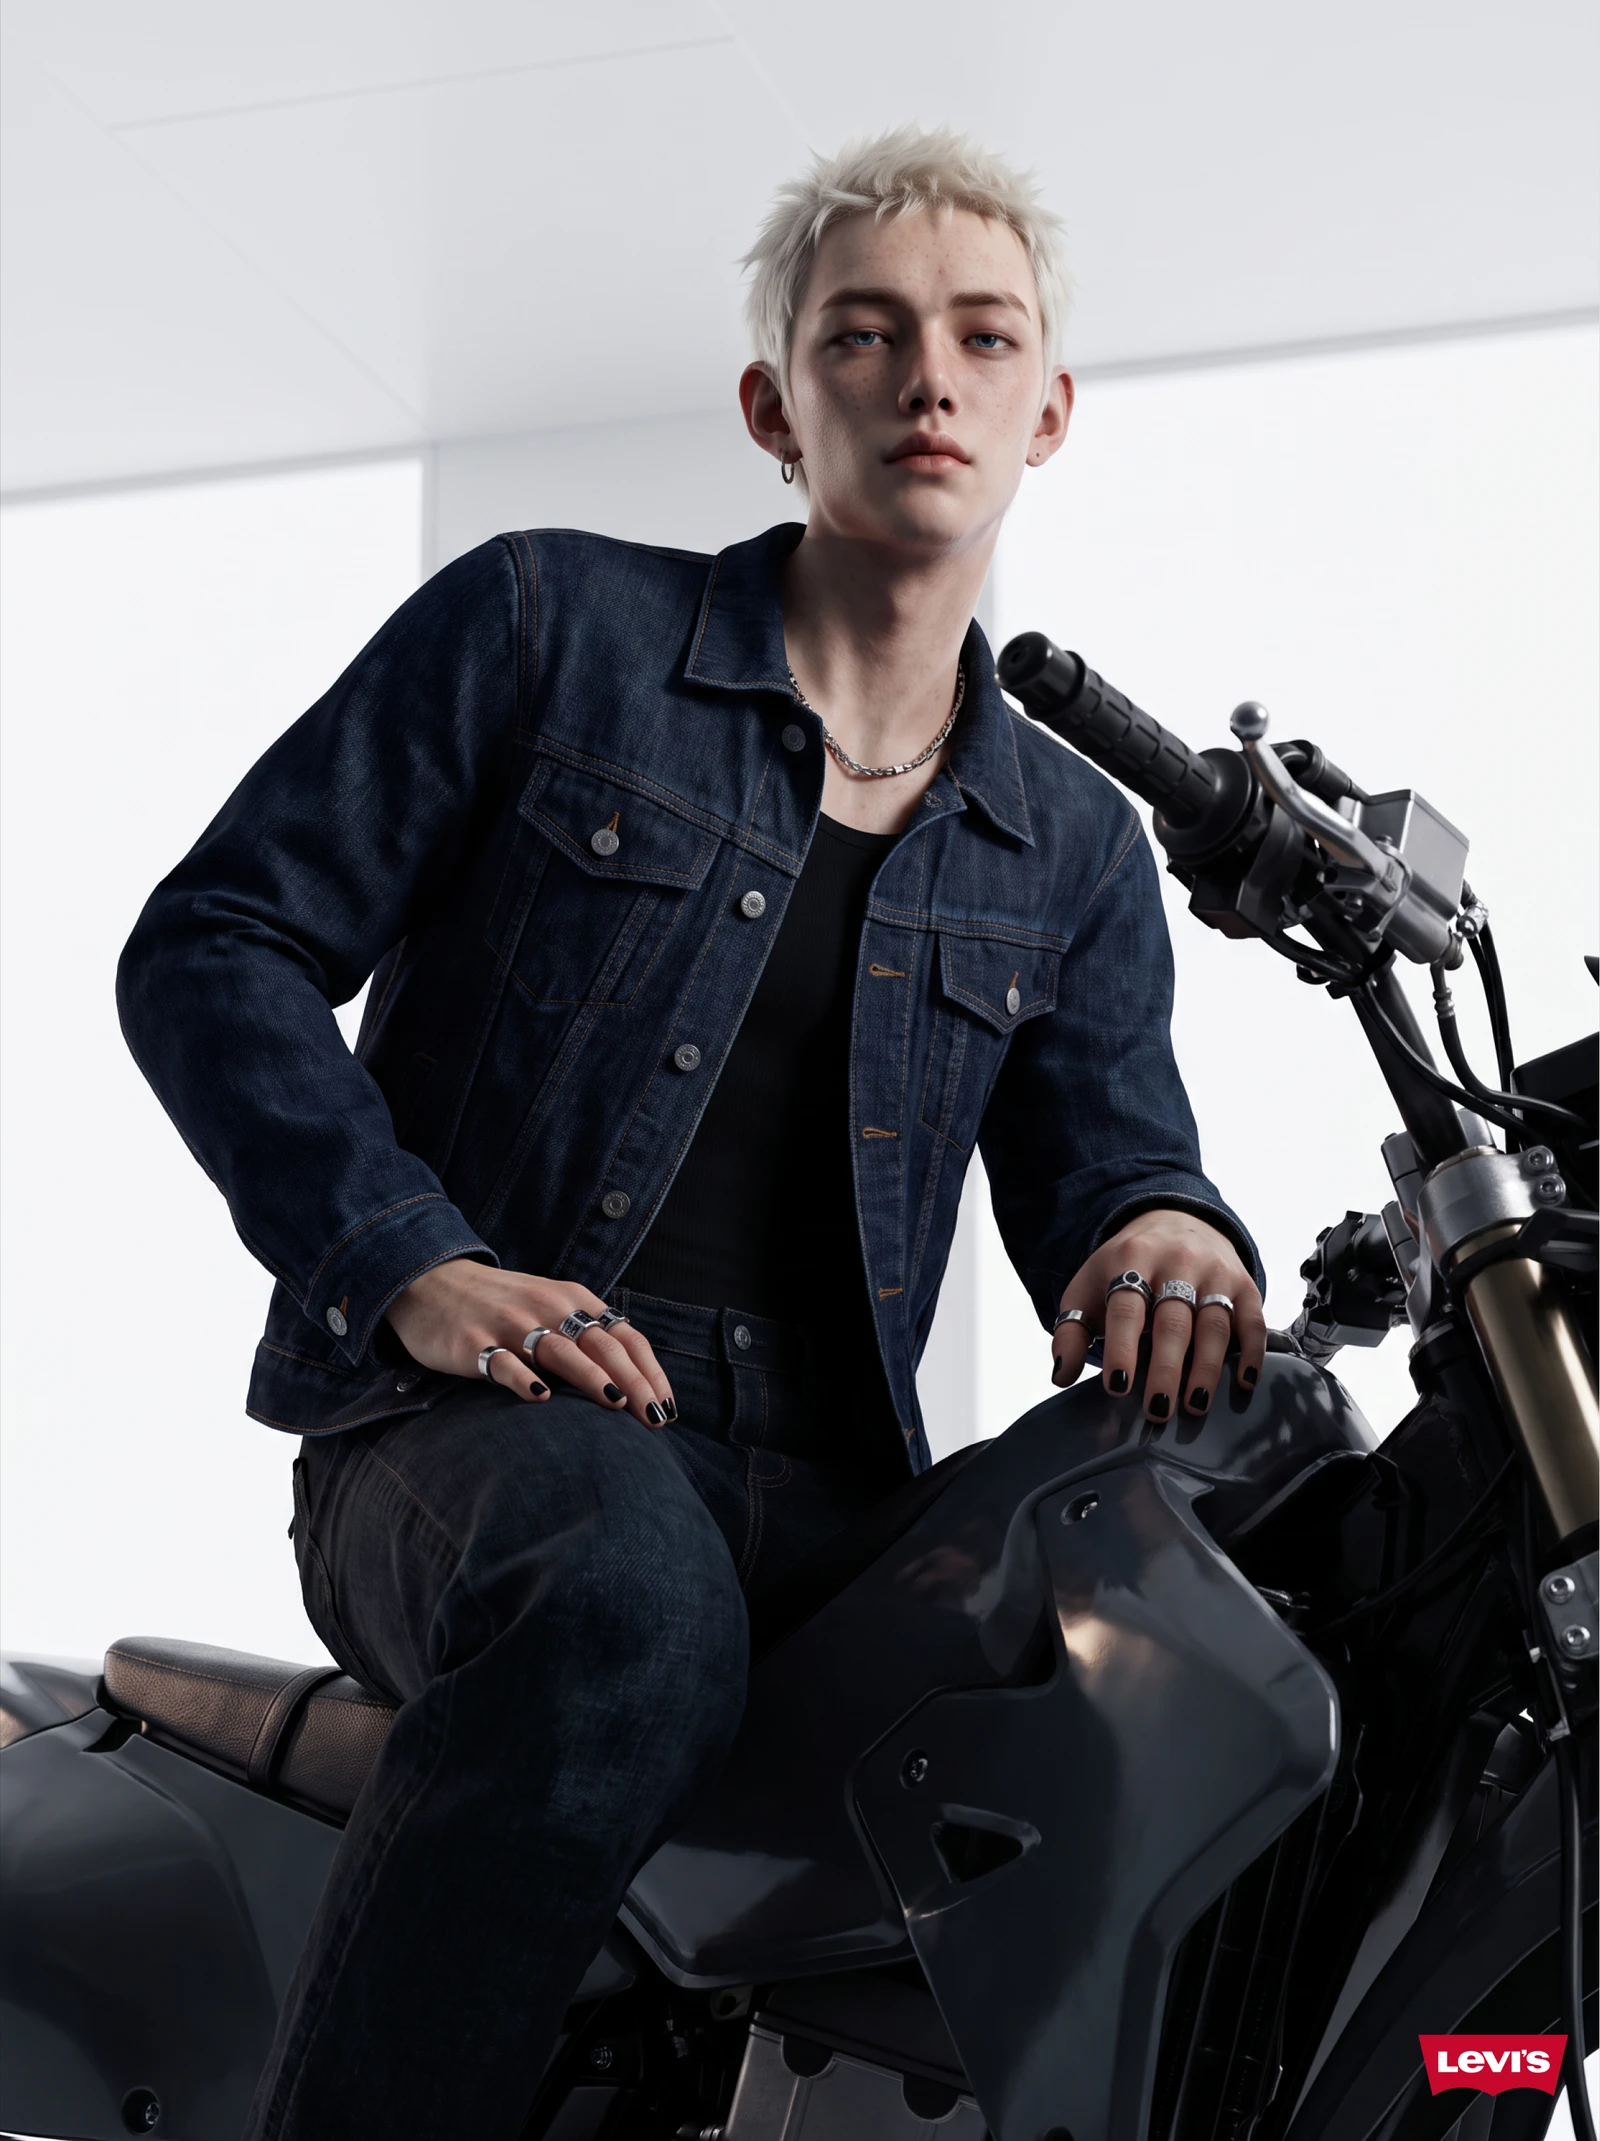
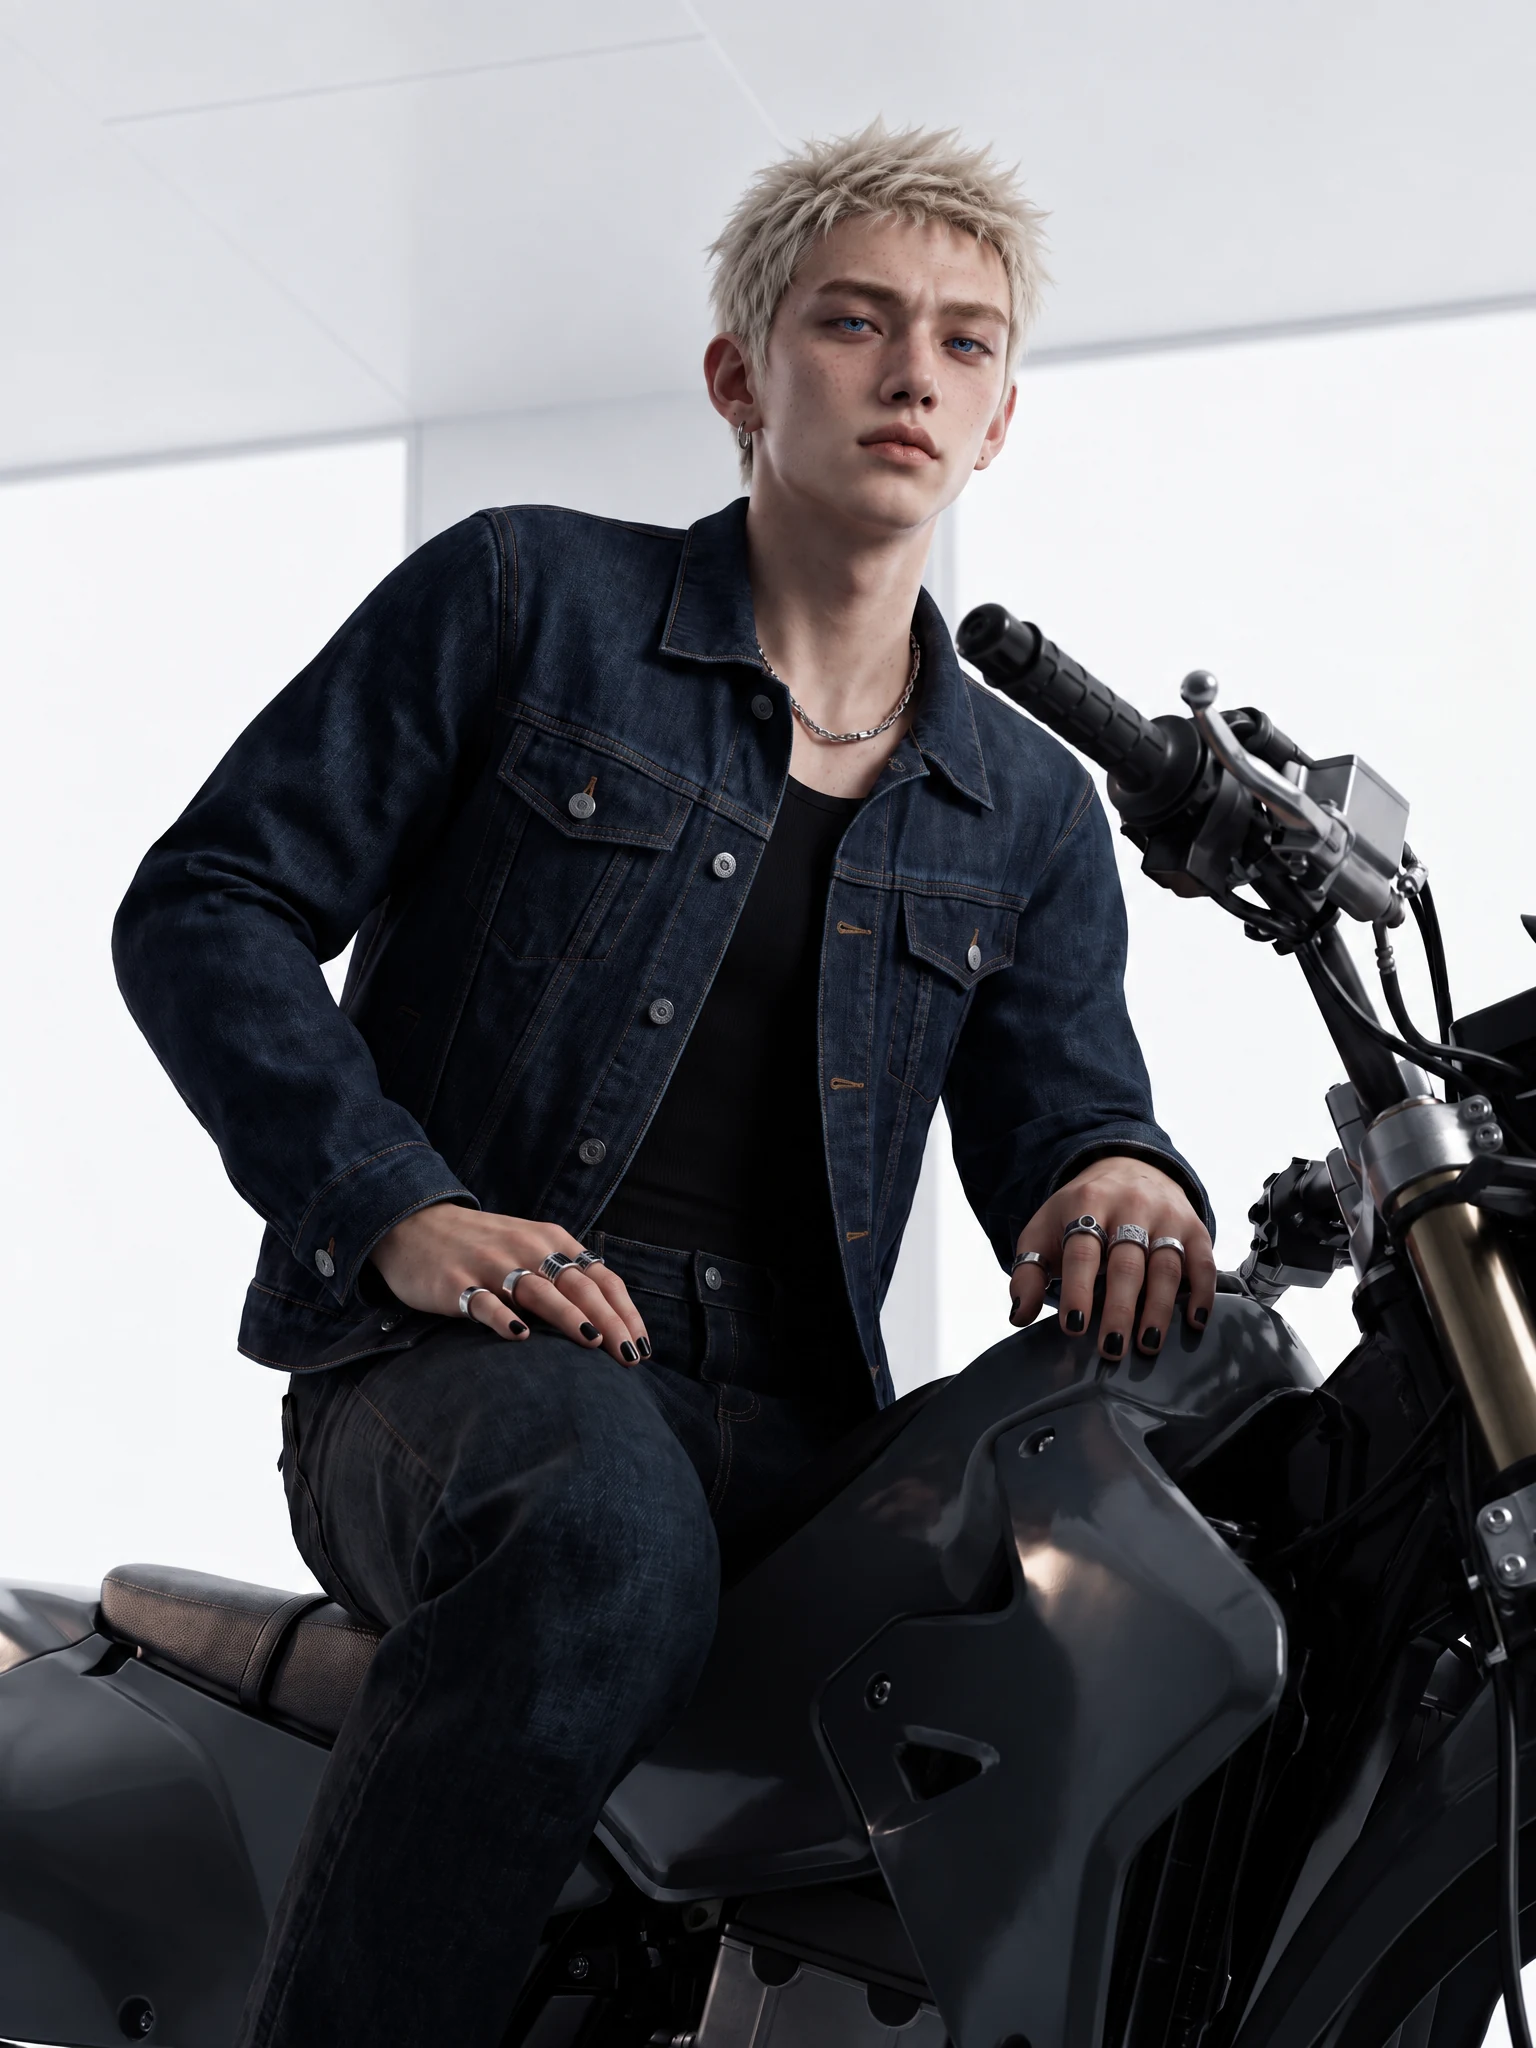
projects: 目录按类别分组（UIUX / 视觉设计+AIGC），新增抖音电竞节项目；qishui 封面动效对齐修复并移除视频层；loading 图标抠透明底

diff --git a/src/components/Projects.jsx b/src/components/Projects.jsx
@@ -11,6 +11,7 @@ import Reveal from "./Reveal";
 const projects = [
   {
     num: "01",
+    cat: "UIUX 设计",
     name: ["乔司监狱", "视觉 AI 安防系统"],
     desc: "B2G 实习项目，负责视觉 AI 安防系统的交互与界面设计，从需求梳理到界面落地",
     period: "2025.12 ～ 2026.02 · 19 pages",
@@ -24,6 +25,7 @@ const projects = [
   },
   {
     num: "02",
+    cat: "UIUX 设计",
     name: ["汽水音乐", "AI 混合电台"],
     desc: "C 端个人项目，围绕 AI 个性化电台探索推荐、播放与情绪感知的体验闭环",
     period: "2026.08 ～ 2026.09 · 14 pages",
@@ -37,6 +39,7 @@ const projects = [
   },
   {
     num: "03",
+    cat: "视觉设计 + AIGC",
     name: ["百度优选", "省心选活动 KV"],
     desc: "C 端电商项目，负责活动主视觉 KV 与系列延展，把控从草图到上线的整体视觉节奏",
     period: "2026.03 · 3 pages",
@@ -50,12 +53,23 @@ const projects = [
   },
   {
     num: "04",
+    cat: "视觉设计 + AIGC",
     name: ["虚拟人", "& 品牌视觉"],
     desc: "虚拟人角色设计与商业视觉落地，包含角色三视图、建模主视觉及 Levi's 等品牌联名 campaign。用 3D + AI 技术为数字身份注入真实的时尚叙事与品牌表现力。",
     period: "2026 · 品牌联名",
     tags: ["3D 建模", "AI 视觉", "角色设计", "品牌联名"],
     thumbs: ["/pages/virtual-preview-1.webp"],
     href: "/project-virtual.html",
+  },
+  {
+    num: "05",
+    cat: "视觉设计 + AIGC",
+    name: ["抖音电竞节", "畅玩新世代系列海报"],
+    desc: "运营视觉项目，为抖音电竞节设计开屏海报与主 KV，通过友情、探险、荣誉三个主题展现视觉表现力；AIGC 辅助完成场景生成与人物合成",
+    period: "运营视觉 · 主 KV + 系列海报",
+    tags: ["运营视觉", "AIGC", "主 KV", "系列海报"],
+    thumbs: ["/pages/douyin-preview-1.webp", "/pages/douyin-preview-2.webp"],
+    href: null,
   },
 ];
 
@@ -155,9 +169,19 @@ export default function Projects() {
         <div className="border-t border-white/20">
         {projects.map((p, i) => {
           const isOpen = activeIndex === i;
+          const showCat = i === 0 || projects[i - 1].cat !== p.cat;
           return (
+            <div key={p.num}>
+              {/* 分类小标题 */}
+              {showCat && (
+                <div className={`flex items-center gap-5 ${i === 0 ? "pt-2" : "pt-14"} pb-1`}>
+                  <span className="text-[12px] font-normal uppercase tracking-[0.12em] text-white/55">
+                    {p.cat}
+                  </span>
+                  <span className="h-px flex-1 bg-white/15"></span>
+                </div>
+              )}
             <div
-              key={p.num}
               className="project-row border-b border-white/20 py-4"
               data-open={isOpen}
             >
@@ -211,20 +235,13 @@ export default function Projects() {
                       p.thumbs.length === 1 ? "" : "sm:grid-cols-2"
                     }`}
                   >
-                    {p.thumbs.slice(0, 2).map((src, ti) => (
-                      <a
-                        key={ti}
-                        href={p.href}
-                        onClick={(e) =>
-                          enterProject(e, p, e.currentTarget.querySelector("img"))
-                        }
-                        aria-label={`查看完整项目：${p.name.join(" ")}`}
-                        className={`group/img relative block cursor-pointer overflow-hidden rounded-2xl bg-white/5 ${
-                          p.thumbs.length === 1
-                            ? "aspect-video"
-                            : "aspect-[16/10] md:aspect-video"
-                        }`}
-                      >
+                    {p.thumbs.slice(0, 2).map((src, ti) => {
+                      const imgCls = `group/img relative block overflow-hidden rounded-2xl bg-white/5 ${
+                        p.thumbs.length === 1
+                          ? "aspect-video"
+                          : "aspect-[16/10] md:aspect-video"
+                      }`;
+                      const imgEl = (
                         <img
                           src={src}
                           alt={`${p.name.join(" ")} 预览图 ${ti + 1}`}
@@ -234,8 +251,25 @@ export default function Projects() {
                             e.currentTarget.style.display = "none";
                           }}
                         />
-                      </a>
-                    ))}
+                      );
+                      return p.href ? (
+                        <a
+                          key={ti}
+                          href={p.href}
+                          onClick={(e) =>
+                            enterProject(e, p, e.currentTarget.querySelector("img"))
+                          }
+                          aria-label={`查看完整项目：${p.name.join(" ")}`}
+                          className={`${imgCls} cursor-pointer`}
+                        >
+                          {imgEl}
+                        </a>
+                      ) : (
+                        <div key={ti} className={imgCls}>
+                          {imgEl}
+                        </div>
+                      );
+                    })}
                   </div>
 
                   {/* 描述（桌面端 + 移动端都显示） */}
@@ -255,7 +289,8 @@ export default function Projects() {
                     ))}
                   </div>
 
-                  {/* 查看完整项目 — 明显按钮 */}
+                  {/* 查看完整项目 — 明显按钮（无详情页时不显示） */}
+                  {p.href && (
                   <a
                     href={p.href}
                     onClick={(e) => enterProject(e, p)}
@@ -276,8 +311,10 @@ export default function Projects() {
                       <path d="m12 5 7 7-7 7" />
                     </svg>
                   </a>
+                  )}
                 </div>
               </div>
+            </div>
             </div>
           );
         })}

diff --git a/public/project-qishui.html b/public/project-qishui.html
@@ -15,16 +15,8 @@
   main{display:flex;flex-direction:column;align-items:center;gap:18px;padding:18px 18px 60px}
   figure{margin:0;width:100%;max-width:1280px;background:#000;border-radius:6px;overflow:hidden;box-shadow:0 6px 30px rgba(0,0,0,.4)}
   figure img{display:block;width:100%;height:auto}
-  /* p23 封面 — 静态底图 + demo.webm 动效视频层（沿用 portfolio-html-v3 原版参数） */
+  /* p23 封面 — 静态底图（原 demo.webm 视频层已移除） */
   .p23-media{position:relative}
-  .p23-media .side-demo{
-    position:absolute;
-    left:68.1%; top:17.1%;
-    height:74.6%; width:auto;
-    border-radius:7.5% / 3.41%;
-    object-fit:cover;
-    box-shadow:0 24px 70px rgba(0,0,0,.6), 0 0 0 1px rgba(255,255,255,.08);
-  }
   /* p33 动效设计 — 原版 slide33 完整实现（双加载 demo + 呼吸文字卡） */
   .p33-media{position:relative}
   .slide33{
@@ -151,7 +143,6 @@
   <main>
     <figure class="p23-media">
       <img src="pages/page-23-bg.webp" width="1600" height="900" alt="p23 汽水音乐 · AI 混合电台 封面" fetchpriority="high">
-      <video class="side-demo" src="/demo.webm" autoplay loop muted playsinline preload="auto"></video>
     </figure>
     <figure><img src="pages/page-24.webp" alt="p24" loading="lazy"></figure>
     <figure><div class="slide25">

diff --git a/public/project-virtual.html b/public/project-virtual.html
@@ -255,7 +255,7 @@ body.js .dg{height:660vh}
 <div class="dg-card"><span class="dg-date">2026.09</span><div class="dg-photo"><img class="g-pimg" data-full="/pages/virtual-shot-3.webp" src="/pages/virtual-shot-3.webp" width="1600" height="2141" alt="虚拟人 Levi's 大片 04：车内公路场景" loading="lazy" decoding="async"></div><div class="dg-cap"><b>穿上它，出发。</b></div></div>
 </div>
 <div class="dg-plane" data-word="Studio" data-pms="PMS 7527 C" data-accent="#8a97a5" data-bg="#efece6" data-b1="#d2c2ac" data-b2="#9fadbc" data-x="-0.58" data-light="1">
-<div class="dg-card"><span class="dg-date">2026.09</span><div class="dg-photo"><img class="g-pimg" data-full="/pages/virtual-shot-4.webp" src="/pages/virtual-shot-4.webp" width="1600" height="2141" alt="虚拟人 Levi's 大片 05：纯白影棚机车场景" loading="lazy" decoding="async"></div><div class="dg-cap"><b>去往下一站</b></div></div>
+<div class="dg-card"><span class="dg-date">2026.09</span><div class="dg-photo"><img class="g-pimg" data-full="/pages/virtual-shot-4.webp" src="/pages/virtual-shot-4.webp" width="1536" height="2048" alt="虚拟人 Levi's 大片 05：纯白影棚机车场景" loading="lazy" decoding="async"></div><div class="dg-cap"><b>去往下一站</b></div></div>
 </div>
 </div>
 </div>
